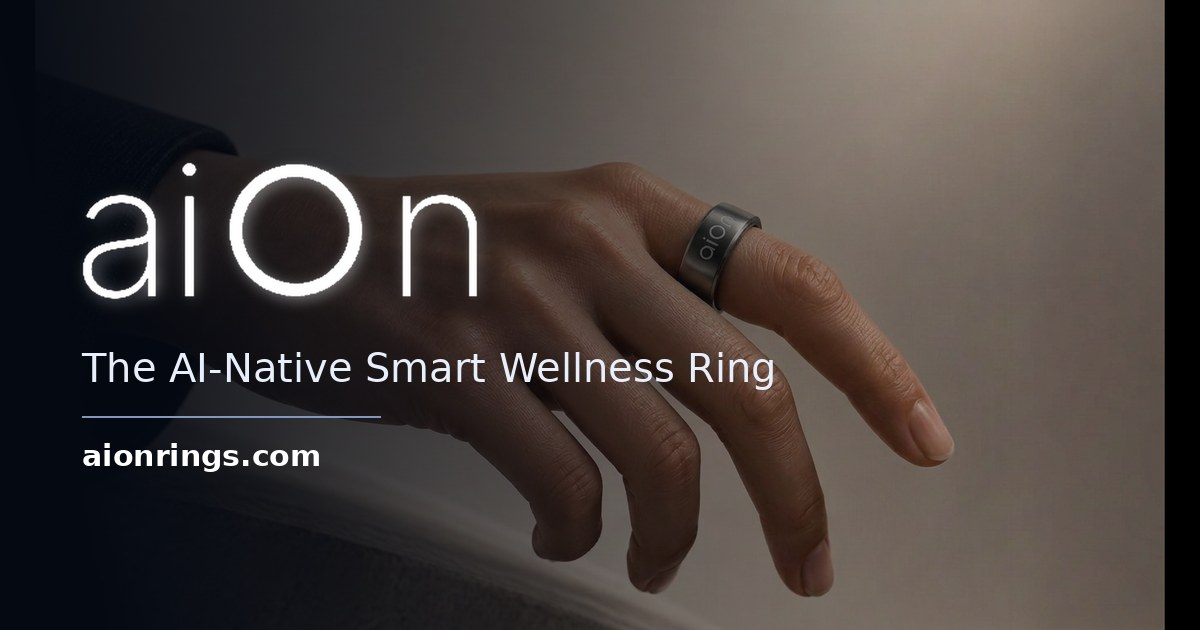
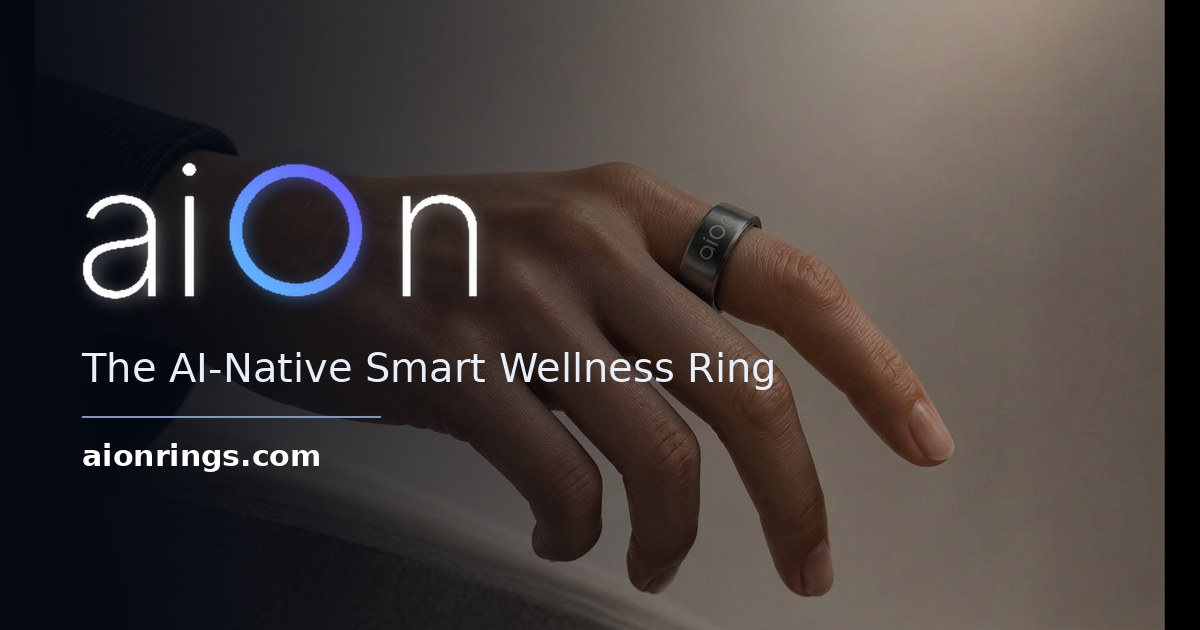
Link preview: brand gradient on the O in aiOn wordmark

Changed region(s): [[0.185, 0.2413, 0.3083, 0.4825]]

diff --git a/index.html b/index.html
@@ -18,8 +18,8 @@
     <meta property="og:url" content="https://www.aionrings.com/" />
     <meta property="og:title" content="aiOn, The AI-Native Smart Wellness Ring" />
     <meta property="og:description" content="aiOn turns everyday wellness signals into one daily Vitality Score and one action built for you. A general wellness product, not a medical device." />
-    <meta property="og:image" content="https://www.aionrings.com/og-image.jpg?v=2" />
-    <meta property="og:image:secure_url" content="https://www.aionrings.com/og-image.jpg?v=2" />
+    <meta property="og:image" content="https://www.aionrings.com/og-image.jpg?v=3" />
+    <meta property="og:image:secure_url" content="https://www.aionrings.com/og-image.jpg?v=3" />
     <meta property="og:image:type" content="image/jpeg" />
     <meta property="og:image:width" content="1200" />
     <meta property="og:image:height" content="630" />
@@ -30,7 +30,7 @@
     <meta name="twitter:site" content="@aionrings" />
     <meta name="twitter:title" content="aiOn, The AI-Native Smart Wellness Ring" />
     <meta name="twitter:description" content="aiOn turns everyday wellness signals into one daily Vitality Score and one action built for you. A general wellness product, not a medical device." />
-    <meta name="twitter:image" content="https://www.aionrings.com/og-image.jpg?v=2" />
+    <meta name="twitter:image" content="https://www.aionrings.com/og-image.jpg?v=3" />
     <meta name="twitter:image:alt" content="aiOn smart wellness ring, the full circle of wellness" />
 
     <link rel="icon" type="image/png" sizes="16x16" href="/favicon-16x16.png?v=2" />
